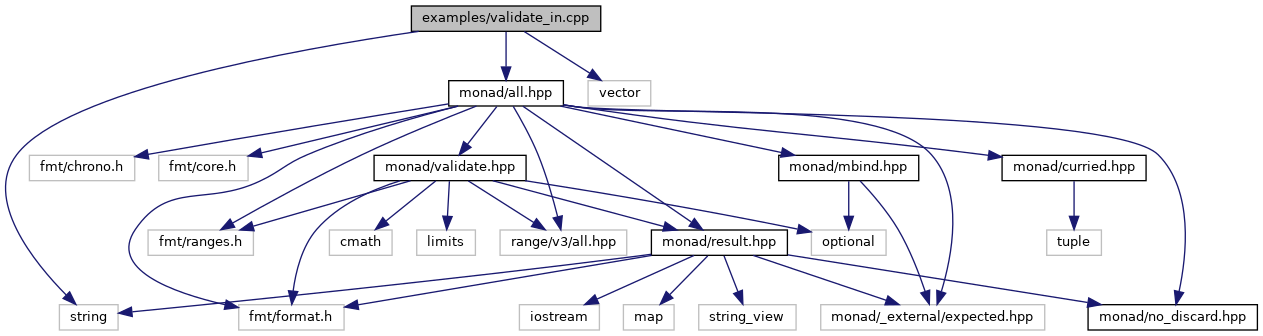
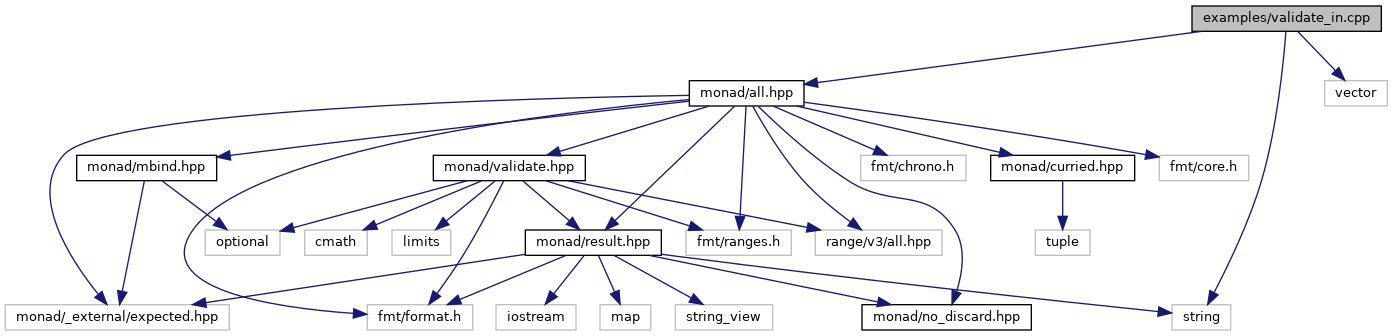
Deploying to gh-pages from @ tylerjw/monad@fa17e410df0eb7f10cb28e96ce4f65909ae8c2ec 🚀

diff --git a/validate__range_8cpp_source.html b/validate__range_8cpp_source.html
@@ -72,43 +72,39 @@ $(function() {
 <div class="contents">
 <a href="validate__range_8cpp.html">Go to the documentation of this file.</a><div class="fragment"><div class="line"><a name="l00001"></a><span class="lineno">    1</span>&#160;<span class="preprocessor">#include &lt;<a class="code" href="all_8hpp.html">monad/all.hpp</a>&gt;</span></div>
 <div class="line"><a name="l00002"></a><span class="lineno">    2</span>&#160; </div>
-<div class="line"><a name="l00003"></a><span class="lineno"><a class="line" href="validate__range_8cpp.html#a23c3f3583f3021edf5f227df3498ab01">    3</a></span>&#160;<span class="keywordtype">void</span> <a class="code" href="validate__range_8cpp.html#a23c3f3583f3021edf5f227df3498ab01">validate_int_step</a>()</div>
-<div class="line"><a name="l00004"></a><span class="lineno">    4</span>&#160;{</div>
-<div class="line"><a name="l00005"></a><span class="lineno">    5</span>&#160;  <span class="keyword">const</span> <span class="keyword">auto</span> value = 14;</div>
-<div class="line"><a name="l00006"></a><span class="lineno">    6</span>&#160;  <span class="keyword">const</span> <span class="keyword">auto</span> result = <a class="code" href="structvalidate_1_1range.html">validate::range&lt;int&gt;</a>{.<a class="code" href="structvalidate_1_1range.html#a99faa1e51c643e3366a996f5b2ba2dae">from</a> = 0, .step = 3}(value);</div>
-<div class="line"><a name="l00007"></a><span class="lineno">    7</span>&#160;  <span class="keywordflow">if</span> ( !result)</div>
-<div class="line"><a name="l00008"></a><span class="lineno">    8</span>&#160;  {</div>
-<div class="line"><a name="l00009"></a><span class="lineno">    9</span>&#160;    fmt::print(<span class="stringliteral">&quot;{} failed validate::range with result: {}\n&quot;</span>, value, result);</div>
-<div class="line"><a name="l00010"></a><span class="lineno">   10</span>&#160;  } <span class="keywordflow">else</span> {</div>
-<div class="line"><a name="l00011"></a><span class="lineno">   11</span>&#160;    fmt::print(<span class="stringliteral">&quot;{} passed validate::range with result: {}\n&quot;</span>, value, result);</div>
-<div class="line"><a name="l00012"></a><span class="lineno">   12</span>&#160;  }</div>
-<div class="line"><a name="l00013"></a><span class="lineno">   13</span>&#160;}</div>
-<div class="line"><a name="l00014"></a><span class="lineno">   14</span>&#160; </div>
-<div class="line"><a name="l00015"></a><span class="lineno"><a class="line" href="validate__range_8cpp.html#a45dade0a0ed3bc9cc3945d33888a3d53">   15</a></span>&#160;<span class="keywordtype">void</span> <a class="code" href="validate__range_8cpp.html#a45dade0a0ed3bc9cc3945d33888a3d53">validate_double</a>()</div>
-<div class="line"><a name="l00016"></a><span class="lineno">   16</span>&#160;{</div>
-<div class="line"><a name="l00017"></a><span class="lineno">   17</span>&#160;  <span class="keyword">const</span> <span class="keyword">auto</span> value = -2.1;</div>
-<div class="line"><a name="l00018"></a><span class="lineno">   18</span>&#160;  <span class="keyword">const</span> <span class="keyword">auto</span> result = <a class="code" href="structvalidate_1_1range.html">validate::range&lt;double&gt;</a>{.<a class="code" href="structvalidate_1_1range.html#a99faa1e51c643e3366a996f5b2ba2dae">from</a> = -15, .to = 23}(value);</div>
-<div class="line"><a name="l00019"></a><span class="lineno">   19</span>&#160;  <span class="keywordflow">if</span> (!result)</div>
-<div class="line"><a name="l00020"></a><span class="lineno">   20</span>&#160;  {</div>
-<div class="line"><a name="l00021"></a><span class="lineno">   21</span>&#160;    fmt::print(<span class="stringliteral">&quot;{} failed validate::range with result: {}\n&quot;</span>, value, result);</div>
-<div class="line"><a name="l00022"></a><span class="lineno">   22</span>&#160;  } <span class="keywordflow">else</span> {</div>
-<div class="line"><a name="l00023"></a><span class="lineno">   23</span>&#160;    fmt::print(<span class="stringliteral">&quot;{} passed validate::range with result: {}\n&quot;</span>, value, result);</div>
-<div class="line"><a name="l00024"></a><span class="lineno">   24</span>&#160;  }</div>
-<div class="line"><a name="l00025"></a><span class="lineno">   25</span>&#160;}</div>
-<div class="line"><a name="l00026"></a><span class="lineno">   26</span>&#160; </div>
-<div class="line"><a name="l00027"></a><span class="lineno"><a class="line" href="validate__range_8cpp.html#ae66f6b31b5ad750f1fe042a706a4e3d4">   27</a></span>&#160;<span class="keywordtype">int</span> <a class="code" href="validate__range_8cpp.html#ae66f6b31b5ad750f1fe042a706a4e3d4">main</a>()</div>
-<div class="line"><a name="l00028"></a><span class="lineno">   28</span>&#160;{</div>
-<div class="line"><a name="l00029"></a><span class="lineno">   29</span>&#160;  <a class="code" href="validate__range_8cpp.html#a23c3f3583f3021edf5f227df3498ab01">validate_int_step</a>();</div>
-<div class="line"><a name="l00030"></a><span class="lineno">   30</span>&#160;  <span class="comment">// 14 failed validate::range with result: [Result&lt;T&gt;: [Error: [OutOfRange] 14 is 0.33333333333333304 away from the nearest valid step]]</span></div>
-<div class="line"><a name="l00031"></a><span class="lineno">   31</span>&#160; </div>
-<div class="line"><a name="l00032"></a><span class="lineno">   32</span>&#160;  <a class="code" href="validate__range_8cpp.html#a45dade0a0ed3bc9cc3945d33888a3d53">validate_double</a>();</div>
-<div class="line"><a name="l00033"></a><span class="lineno">   33</span>&#160;  <span class="comment">// -2.1 passed validate::range with result: [Result&lt;T&gt;: value=-2.1]</span></div>
-<div class="line"><a name="l00034"></a><span class="lineno">   34</span>&#160;}</div>
+<div class="line"><a name="l00003"></a><span class="lineno"><a class="line" href="validate__range_8cpp.html#a23c3f3583f3021edf5f227df3498ab01">    3</a></span>&#160;<span class="keywordtype">void</span> <a class="code" href="validate__range_8cpp.html#a23c3f3583f3021edf5f227df3498ab01">validate_int_step</a>() {</div>
+<div class="line"><a name="l00004"></a><span class="lineno">    4</span>&#160;  <span class="keyword">const</span> <span class="keyword">auto</span> value = 14;</div>
+<div class="line"><a name="l00005"></a><span class="lineno">    5</span>&#160;  <span class="keyword">const</span> <span class="keyword">auto</span> result = <a class="code" href="structvalidate_1_1range.html">validate::range&lt;int&gt;</a>{.<a class="code" href="structvalidate_1_1range.html#a99faa1e51c643e3366a996f5b2ba2dae">from</a> = 0, .step = 3}(value);</div>
+<div class="line"><a name="l00006"></a><span class="lineno">    6</span>&#160;  <span class="keywordflow">if</span> (!result) {</div>
+<div class="line"><a name="l00007"></a><span class="lineno">    7</span>&#160;    fmt::print(<span class="stringliteral">&quot;{} failed validate::range with result: {}\n&quot;</span>, value, result);</div>
+<div class="line"><a name="l00008"></a><span class="lineno">    8</span>&#160;  } <span class="keywordflow">else</span> {</div>
+<div class="line"><a name="l00009"></a><span class="lineno">    9</span>&#160;    fmt::print(<span class="stringliteral">&quot;{} passed validate::range with result: {}\n&quot;</span>, value, result);</div>
+<div class="line"><a name="l00010"></a><span class="lineno">   10</span>&#160;  }</div>
+<div class="line"><a name="l00011"></a><span class="lineno">   11</span>&#160;}</div>
+<div class="line"><a name="l00012"></a><span class="lineno">   12</span>&#160; </div>
+<div class="line"><a name="l00013"></a><span class="lineno"><a class="line" href="validate__range_8cpp.html#a45dade0a0ed3bc9cc3945d33888a3d53">   13</a></span>&#160;<span class="keywordtype">void</span> <a class="code" href="validate__range_8cpp.html#a45dade0a0ed3bc9cc3945d33888a3d53">validate_double</a>() {</div>
+<div class="line"><a name="l00014"></a><span class="lineno">   14</span>&#160;  <span class="keyword">const</span> <span class="keyword">auto</span> value = -2.1;</div>
+<div class="line"><a name="l00015"></a><span class="lineno">   15</span>&#160;  <span class="keyword">const</span> <span class="keyword">auto</span> result = <a class="code" href="structvalidate_1_1range.html">validate::range&lt;double&gt;</a>{.<a class="code" href="structvalidate_1_1range.html#a99faa1e51c643e3366a996f5b2ba2dae">from</a> = -15, .to = 23}(value);</div>
+<div class="line"><a name="l00016"></a><span class="lineno">   16</span>&#160;  <span class="keywordflow">if</span> (!result) {</div>
+<div class="line"><a name="l00017"></a><span class="lineno">   17</span>&#160;    fmt::print(<span class="stringliteral">&quot;{} failed validate::range with result: {}\n&quot;</span>, value, result);</div>
+<div class="line"><a name="l00018"></a><span class="lineno">   18</span>&#160;  } <span class="keywordflow">else</span> {</div>
+<div class="line"><a name="l00019"></a><span class="lineno">   19</span>&#160;    fmt::print(<span class="stringliteral">&quot;{} passed validate::range with result: {}\n&quot;</span>, value, result);</div>
+<div class="line"><a name="l00020"></a><span class="lineno">   20</span>&#160;  }</div>
+<div class="line"><a name="l00021"></a><span class="lineno">   21</span>&#160;}</div>
+<div class="line"><a name="l00022"></a><span class="lineno">   22</span>&#160; </div>
+<div class="line"><a name="l00023"></a><span class="lineno"><a class="line" href="validate__range_8cpp.html#ae66f6b31b5ad750f1fe042a706a4e3d4">   23</a></span>&#160;<span class="keywordtype">int</span> <a class="code" href="validate__range_8cpp.html#ae66f6b31b5ad750f1fe042a706a4e3d4">main</a>() {</div>
+<div class="line"><a name="l00024"></a><span class="lineno">   24</span>&#160;  <a class="code" href="validate__range_8cpp.html#a23c3f3583f3021edf5f227df3498ab01">validate_int_step</a>();</div>
+<div class="line"><a name="l00025"></a><span class="lineno">   25</span>&#160;  <span class="comment">// 14 failed validate::range with result: [Result&lt;T&gt;: [Error: [OutOfRange] 14</span></div>
+<div class="line"><a name="l00026"></a><span class="lineno">   26</span>&#160;  <span class="comment">// is 0.33333333333333304 away from the nearest valid step]]</span></div>
+<div class="line"><a name="l00027"></a><span class="lineno">   27</span>&#160; </div>
+<div class="line"><a name="l00028"></a><span class="lineno">   28</span>&#160;  <a class="code" href="validate__range_8cpp.html#a45dade0a0ed3bc9cc3945d33888a3d53">validate_double</a>();</div>
+<div class="line"><a name="l00029"></a><span class="lineno">   29</span>&#160;  <span class="comment">// -2.1 passed validate::range with result: [Result&lt;T&gt;: value=-2.1]</span></div>
+<div class="line"><a name="l00030"></a><span class="lineno">   30</span>&#160;}</div>
 </div><!-- fragment --></div><!-- contents -->
 <div class="ttc" id="astructvalidate_1_1range_html"><div class="ttname"><a href="structvalidate_1_1range.html">validate::range</a></div><div class="ttdef"><b>Definition:</b> <a href="validate_8hpp_source.html#l00052">validate.hpp:52</a></div></div>
-<div class="ttc" id="avalidate__range_8cpp_html_a45dade0a0ed3bc9cc3945d33888a3d53"><div class="ttname"><a href="validate__range_8cpp.html#a45dade0a0ed3bc9cc3945d33888a3d53">validate_double</a></div><div class="ttdeci">void validate_double()</div><div class="ttdef"><b>Definition:</b> <a href="validate__range_8cpp_source.html#l00015">validate_range.cpp:15</a></div></div>
+<div class="ttc" id="avalidate__range_8cpp_html_a45dade0a0ed3bc9cc3945d33888a3d53"><div class="ttname"><a href="validate__range_8cpp.html#a45dade0a0ed3bc9cc3945d33888a3d53">validate_double</a></div><div class="ttdeci">void validate_double()</div><div class="ttdef"><b>Definition:</b> <a href="validate__range_8cpp_source.html#l00013">validate_range.cpp:13</a></div></div>
 <div class="ttc" id="astructvalidate_1_1range_html_a99faa1e51c643e3366a996f5b2ba2dae"><div class="ttname"><a href="structvalidate_1_1range.html#a99faa1e51c643e3366a996f5b2ba2dae">validate::range::from</a></div><div class="ttdeci">T from</div><div class="ttdef"><b>Definition:</b> <a href="validate_8hpp_source.html#l00053">validate.hpp:53</a></div></div>
-<div class="ttc" id="avalidate__range_8cpp_html_ae66f6b31b5ad750f1fe042a706a4e3d4"><div class="ttname"><a href="validate__range_8cpp.html#ae66f6b31b5ad750f1fe042a706a4e3d4">main</a></div><div class="ttdeci">int main()</div><div class="ttdef"><b>Definition:</b> <a href="validate__range_8cpp_source.html#l00027">validate_range.cpp:27</a></div></div>
+<div class="ttc" id="avalidate__range_8cpp_html_ae66f6b31b5ad750f1fe042a706a4e3d4"><div class="ttname"><a href="validate__range_8cpp.html#ae66f6b31b5ad750f1fe042a706a4e3d4">main</a></div><div class="ttdeci">int main()</div><div class="ttdef"><b>Definition:</b> <a href="validate__range_8cpp_source.html#l00023">validate_range.cpp:23</a></div></div>
 <div class="ttc" id="avalidate__range_8cpp_html_a23c3f3583f3021edf5f227df3498ab01"><div class="ttname"><a href="validate__range_8cpp.html#a23c3f3583f3021edf5f227df3498ab01">validate_int_step</a></div><div class="ttdeci">void validate_int_step()</div><div class="ttdef"><b>Definition:</b> <a href="validate__range_8cpp_source.html#l00003">validate_range.cpp:3</a></div></div>
 <div class="ttc" id="aall_8hpp_html"><div class="ttname"><a href="all_8hpp.html">all.hpp</a></div></div>
 <!-- start footer part -->

diff --git a/validate_range_8cpp-example.html b/validate_range_8cpp-example.html
@@ -75,43 +75,39 @@ $(function() {
 <p>This is an example of how to use <a class="el" href="structvalidate_1_1range.html">validate::range</a></p>
 <div class="fragment"><div class="line"><span class="preprocessor">#include &lt;<a class="code" href="all_8hpp.html">monad/all.hpp</a>&gt;</span></div>
 <div class="line"> </div>
-<div class="line"><span class="keywordtype">void</span> <a name="a0"></a><a class="code" href="validate__range_8cpp.html#a23c3f3583f3021edf5f227df3498ab01">validate_int_step</a>()</div>
-<div class="line">{</div>
+<div class="line"><span class="keywordtype">void</span> <a name="a0"></a><a class="code" href="validate__range_8cpp.html#a23c3f3583f3021edf5f227df3498ab01">validate_int_step</a>() {</div>
 <div class="line">  <span class="keyword">const</span> <span class="keyword">auto</span> value = 14;</div>
 <div class="line">  <span class="keyword">const</span> <span class="keyword">auto</span> result = <a name="_a1"></a><a class="code" href="structvalidate_1_1range.html">validate::range&lt;int&gt;</a>{.<a name="a2"></a><a class="code" href="structvalidate_1_1range.html#a99faa1e51c643e3366a996f5b2ba2dae">from</a> = 0, .step = 3}(value);</div>
-<div class="line">  <span class="keywordflow">if</span> ( !result)</div>
-<div class="line">  {</div>
+<div class="line">  <span class="keywordflow">if</span> (!result) {</div>
 <div class="line">    fmt::print(<span class="stringliteral">&quot;{} failed validate::range with result: {}\n&quot;</span>, value, result);</div>
 <div class="line">  } <span class="keywordflow">else</span> {</div>
 <div class="line">    fmt::print(<span class="stringliteral">&quot;{} passed validate::range with result: {}\n&quot;</span>, value, result);</div>
 <div class="line">  }</div>
 <div class="line">}</div>
 <div class="line"> </div>
-<div class="line"><span class="keywordtype">void</span> <a name="a3"></a><a class="code" href="validate__range_8cpp.html#a45dade0a0ed3bc9cc3945d33888a3d53">validate_double</a>()</div>
-<div class="line">{</div>
+<div class="line"><span class="keywordtype">void</span> <a name="a3"></a><a class="code" href="validate__range_8cpp.html#a45dade0a0ed3bc9cc3945d33888a3d53">validate_double</a>() {</div>
 <div class="line">  <span class="keyword">const</span> <span class="keyword">auto</span> value = -2.1;</div>
 <div class="line">  <span class="keyword">const</span> <span class="keyword">auto</span> result = <a class="code" href="structvalidate_1_1range.html">validate::range&lt;double&gt;</a>{.<a class="code" href="structvalidate_1_1range.html#a99faa1e51c643e3366a996f5b2ba2dae">from</a> = -15, .to = 23}(value);</div>
-<div class="line">  <span class="keywordflow">if</span> (!result)</div>
-<div class="line">  {</div>
+<div class="line">  <span class="keywordflow">if</span> (!result) {</div>
 <div class="line">    fmt::print(<span class="stringliteral">&quot;{} failed validate::range with result: {}\n&quot;</span>, value, result);</div>
 <div class="line">  } <span class="keywordflow">else</span> {</div>
 <div class="line">    fmt::print(<span class="stringliteral">&quot;{} passed validate::range with result: {}\n&quot;</span>, value, result);</div>
 <div class="line">  }</div>
 <div class="line">}</div>
 <div class="line"> </div>
-<div class="line"><span class="keywordtype">int</span> <a name="a4"></a><a class="code" href="validate__range_8cpp.html#ae66f6b31b5ad750f1fe042a706a4e3d4">main</a>()</div>
-<div class="line">{</div>
+<div class="line"><span class="keywordtype">int</span> <a name="a4"></a><a class="code" href="validate__range_8cpp.html#ae66f6b31b5ad750f1fe042a706a4e3d4">main</a>() {</div>
 <div class="line">  <a class="code" href="validate__range_8cpp.html#a23c3f3583f3021edf5f227df3498ab01">validate_int_step</a>();</div>
-<div class="line">  <span class="comment">// 14 failed validate::range with result: [Result&lt;T&gt;: [Error: [OutOfRange] 14 is 0.33333333333333304 away from the nearest valid step]]</span></div>
+<div class="line">  <span class="comment">// 14 failed validate::range with result: [Result&lt;T&gt;: [Error: [OutOfRange] 14</span></div>
+<div class="line">  <span class="comment">// is 0.33333333333333304 away from the nearest valid step]]</span></div>
 <div class="line"> </div>
 <div class="line">  <a class="code" href="validate__range_8cpp.html#a45dade0a0ed3bc9cc3945d33888a3d53">validate_double</a>();</div>
 <div class="line">  <span class="comment">// -2.1 passed validate::range with result: [Result&lt;T&gt;: value=-2.1]</span></div>
 <div class="line">}</div>
 </div><!-- fragment --> </div><!-- contents -->
 <div class="ttc" id="astructvalidate_1_1range_html"><div class="ttname"><a href="structvalidate_1_1range.html">validate::range</a></div><div class="ttdef"><b>Definition:</b> <a href="validate_8hpp_source.html#l00052">validate.hpp:52</a></div></div>
-<div class="ttc" id="avalidate__range_8cpp_html_a45dade0a0ed3bc9cc3945d33888a3d53"><div class="ttname"><a href="validate__range_8cpp.html#a45dade0a0ed3bc9cc3945d33888a3d53">validate_double</a></div><div class="ttdeci">void validate_double()</div><div class="ttdef"><b>Definition:</b> <a href="validate__range_8cpp_source.html#l00015">validate_range.cpp:15</a></div></div>
+<div class="ttc" id="avalidate__range_8cpp_html_a45dade0a0ed3bc9cc3945d33888a3d53"><div class="ttname"><a href="validate__range_8cpp.html#a45dade0a0ed3bc9cc3945d33888a3d53">validate_double</a></div><div class="ttdeci">void validate_double()</div><div class="ttdef"><b>Definition:</b> <a href="validate__range_8cpp_source.html#l00013">validate_range.cpp:13</a></div></div>
 <div class="ttc" id="astructvalidate_1_1range_html_a99faa1e51c643e3366a996f5b2ba2dae"><div class="ttname"><a href="structvalidate_1_1range.html#a99faa1e51c643e3366a996f5b2ba2dae">validate::range::from</a></div><div class="ttdeci">T from</div><div class="ttdef"><b>Definition:</b> <a href="validate_8hpp_source.html#l00053">validate.hpp:53</a></div></div>
-<div class="ttc" id="avalidate__range_8cpp_html_ae66f6b31b5ad750f1fe042a706a4e3d4"><div class="ttname"><a href="validate__range_8cpp.html#ae66f6b31b5ad750f1fe042a706a4e3d4">main</a></div><div class="ttdeci">int main()</div><div class="ttdef"><b>Definition:</b> <a href="validate__range_8cpp_source.html#l00027">validate_range.cpp:27</a></div></div>
+<div class="ttc" id="avalidate__range_8cpp_html_ae66f6b31b5ad750f1fe042a706a4e3d4"><div class="ttname"><a href="validate__range_8cpp.html#ae66f6b31b5ad750f1fe042a706a4e3d4">main</a></div><div class="ttdeci">int main()</div><div class="ttdef"><b>Definition:</b> <a href="validate__range_8cpp_source.html#l00023">validate_range.cpp:23</a></div></div>
 <div class="ttc" id="avalidate__range_8cpp_html_a23c3f3583f3021edf5f227df3498ab01"><div class="ttname"><a href="validate__range_8cpp.html#a23c3f3583f3021edf5f227df3498ab01">validate_int_step</a></div><div class="ttdeci">void validate_int_step()</div><div class="ttdef"><b>Definition:</b> <a href="validate__range_8cpp_source.html#l00003">validate_range.cpp:3</a></div></div>
 <div class="ttc" id="aall_8hpp_html"><div class="ttname"><a href="all_8hpp.html">all.hpp</a></div></div>
 <!-- start footer part -->

diff --git a/validate__in_8cpp_source.html b/validate__in_8cpp_source.html
@@ -70,24 +70,22 @@ $(function() {
 <div class="title">validate_in.cpp</div>  </div>
 </div><!--header-->
 <div class="contents">
-<a href="validate__in_8cpp.html">Go to the documentation of this file.</a><div class="fragment"><div class="line"><a name="l00001"></a><span class="lineno">    1</span>&#160;<span class="preprocessor">#include &lt;string&gt;</span></div>
-<div class="line"><a name="l00002"></a><span class="lineno">    2</span>&#160;<span class="preprocessor">#include &lt;vector&gt;</span></div>
-<div class="line"><a name="l00003"></a><span class="lineno">    3</span>&#160; </div>
-<div class="line"><a name="l00004"></a><span class="lineno">    4</span>&#160;<span class="preprocessor">#include &lt;<a class="code" href="all_8hpp.html">monad/all.hpp</a>&gt;</span></div>
-<div class="line"><a name="l00005"></a><span class="lineno">    5</span>&#160; </div>
-<div class="line"><a name="l00006"></a><span class="lineno"><a class="line" href="validate__in_8cpp.html#ae66f6b31b5ad750f1fe042a706a4e3d4">    6</a></span>&#160;<span class="keywordtype">int</span> <a class="code" href="validate__in_8cpp.html#ae66f6b31b5ad750f1fe042a706a4e3d4">main</a>()</div>
-<div class="line"><a name="l00007"></a><span class="lineno">    7</span>&#160;{</div>
-<div class="line"><a name="l00008"></a><span class="lineno">    8</span>&#160;  <span class="keyword">const</span> <span class="keyword">auto</span> day = <span class="stringliteral">&quot;monday&quot;</span>;</div>
-<div class="line"><a name="l00009"></a><span class="lineno">    9</span>&#160;  <span class="keyword">const</span> <span class="keyword">auto</span> weekends = std::vector&lt;std::string&gt;{<span class="stringliteral">&quot;saturday&quot;</span>, <span class="stringliteral">&quot;sunday&quot;</span>};</div>
-<div class="line"><a name="l00010"></a><span class="lineno">   10</span>&#160;  <span class="keyword">const</span> <span class="keyword">auto</span> result = <a class="code" href="namespacevalidate.html#a511d9c9fd641680d48cab89a01294356">validate::in</a>(weekends, day);</div>
-<div class="line"><a name="l00011"></a><span class="lineno">   11</span>&#160;  fmt::print(<span class="stringliteral">&quot;Is \&#39;{}\&#39; in {}?\n{}\n&quot;</span>, day, weekends, result);</div>
-<div class="line"><a name="l00012"></a><span class="lineno">   12</span>&#160; </div>
-<div class="line"><a name="l00013"></a><span class="lineno">   13</span>&#160;  <span class="comment">// Output:</span></div>
-<div class="line"><a name="l00014"></a><span class="lineno">   14</span>&#160;  <span class="comment">// Is &#39;monday&#39; in {&quot;saturday&quot;, &quot;sunday&quot;}?</span></div>
-<div class="line"><a name="l00015"></a><span class="lineno">   15</span>&#160;  <span class="comment">// [Result&lt;T&gt;: [Error: [OutOfRange] monday is not in {&quot;saturday&quot;, &quot;sunday&quot;}]]</span></div>
-<div class="line"><a name="l00016"></a><span class="lineno">   16</span>&#160;}</div>
+<a href="validate__in_8cpp.html">Go to the documentation of this file.</a><div class="fragment"><div class="line"><a name="l00001"></a><span class="lineno">    1</span>&#160;<span class="preprocessor">#include &lt;<a class="code" href="all_8hpp.html">monad/all.hpp</a>&gt;</span></div>
+<div class="line"><a name="l00002"></a><span class="lineno">    2</span>&#160;<span class="preprocessor">#include &lt;string&gt;</span></div>
+<div class="line"><a name="l00003"></a><span class="lineno">    3</span>&#160;<span class="preprocessor">#include &lt;vector&gt;</span></div>
+<div class="line"><a name="l00004"></a><span class="lineno">    4</span>&#160; </div>
+<div class="line"><a name="l00005"></a><span class="lineno"><a class="line" href="validate__in_8cpp.html#ae66f6b31b5ad750f1fe042a706a4e3d4">    5</a></span>&#160;<span class="keywordtype">int</span> <a class="code" href="validate__in_8cpp.html#ae66f6b31b5ad750f1fe042a706a4e3d4">main</a>() {</div>
+<div class="line"><a name="l00006"></a><span class="lineno">    6</span>&#160;  <span class="keyword">const</span> <span class="keyword">auto</span> day = <span class="stringliteral">&quot;monday&quot;</span>;</div>
+<div class="line"><a name="l00007"></a><span class="lineno">    7</span>&#160;  <span class="keyword">const</span> <span class="keyword">auto</span> weekends = std::vector&lt;std::string&gt;{<span class="stringliteral">&quot;saturday&quot;</span>, <span class="stringliteral">&quot;sunday&quot;</span>};</div>
+<div class="line"><a name="l00008"></a><span class="lineno">    8</span>&#160;  <span class="keyword">const</span> <span class="keyword">auto</span> result = <a class="code" href="namespacevalidate.html#a511d9c9fd641680d48cab89a01294356">validate::in</a>(weekends, day);</div>
+<div class="line"><a name="l00009"></a><span class="lineno">    9</span>&#160;  fmt::print(<span class="stringliteral">&quot;Is \&#39;{}\&#39; in {}?\n{}\n&quot;</span>, day, weekends, result);</div>
+<div class="line"><a name="l00010"></a><span class="lineno">   10</span>&#160; </div>
+<div class="line"><a name="l00011"></a><span class="lineno">   11</span>&#160;  <span class="comment">// Output:</span></div>
+<div class="line"><a name="l00012"></a><span class="lineno">   12</span>&#160;  <span class="comment">// Is &#39;monday&#39; in {&quot;saturday&quot;, &quot;sunday&quot;}?</span></div>
+<div class="line"><a name="l00013"></a><span class="lineno">   13</span>&#160;  <span class="comment">// [Result&lt;T&gt;: [Error: [OutOfRange] monday is not in {&quot;saturday&quot;, &quot;sunday&quot;}]]</span></div>
+<div class="line"><a name="l00014"></a><span class="lineno">   14</span>&#160;}</div>
 </div><!-- fragment --></div><!-- contents -->
-<div class="ttc" id="avalidate__in_8cpp_html_ae66f6b31b5ad750f1fe042a706a4e3d4"><div class="ttname"><a href="validate__in_8cpp.html#ae66f6b31b5ad750f1fe042a706a4e3d4">main</a></div><div class="ttdeci">int main()</div><div class="ttdef"><b>Definition:</b> <a href="validate__in_8cpp_source.html#l00006">validate_in.cpp:6</a></div></div>
+<div class="ttc" id="avalidate__in_8cpp_html_ae66f6b31b5ad750f1fe042a706a4e3d4"><div class="ttname"><a href="validate__in_8cpp.html#ae66f6b31b5ad750f1fe042a706a4e3d4">main</a></div><div class="ttdeci">int main()</div><div class="ttdef"><b>Definition:</b> <a href="validate__in_8cpp_source.html#l00005">validate_in.cpp:5</a></div></div>
 <div class="ttc" id="anamespacevalidate_html_a511d9c9fd641680d48cab89a01294356"><div class="ttname"><a href="namespacevalidate.html#a511d9c9fd641680d48cab89a01294356">validate::in</a></div><div class="ttdeci">constexpr Result&lt; T &gt; in(const Rng &amp;valid_values, const T &amp;value)</div><div class="ttdef"><b>Definition:</b> <a href="validate_8hpp_source.html#l00094">validate.hpp:94</a></div></div>
 <div class="ttc" id="aall_8hpp_html"><div class="ttname"><a href="all_8hpp.html">all.hpp</a></div></div>
 <!-- start footer part -->

diff --git a/validate__in_8cpp.html b/validate__in_8cpp.html
@@ -72,36 +72,36 @@ $(function() {
 <div class="title">validate_in.cpp File Reference</div>  </div>
 </div><!--header-->
 <div class="contents">
-<div class="textblock"><code>#include &lt;string&gt;</code><br />
+<div class="textblock"><code>#include &lt;<a class="el" href="all_8hpp_source.html">monad/all.hpp</a>&gt;</code><br />
+<code>#include &lt;string&gt;</code><br />
 <code>#include &lt;vector&gt;</code><br />
-<code>#include &lt;<a class="el" href="all_8hpp_source.html">monad/all.hpp</a>&gt;</code><br />
 </div><div class="textblock"><div class="dynheader">
 Include dependency graph for validate_in.cpp:</div>
 <div class="dyncontent">
 <div class="center"><img src="validate__in_8cpp__incl.png" border="0" usemap="#examples_2validate__in_8cpp" alt=""/></div>
 <map name="examples_2validate__in_8cpp" id="examples_2validate__in_8cpp">
-<area shape="rect" title=" " alt="" coords="411,5,601,32"/>
-<area shape="rect" title=" " alt="" coords="59,304,118,331"/>
-<area shape="rect" title=" " alt="" coords="588,80,651,107"/>
-<area shape="rect" href="all_8hpp.html" title=" " alt="" coords="449,80,563,107"/>
-<area shape="rect" title=" " alt="" coords="29,155,135,181"/>
-<area shape="rect" title=" " alt="" coords="159,155,248,181"/>
-<area shape="rect" title=" " alt="" coords="239,304,344,331"/>
-<area shape="rect" title=" " alt="" coords="148,229,253,256"/>
-<area shape="rect" title=" " alt="" coords="500,229,627,256"/>
-<area shape="rect" title=" " alt="" coords="821,304,1045,331"/>
-<area shape="rect" href="curried_8hpp.html" title=" " alt="" coords="1002,155,1146,181"/>
-<area shape="rect" href="mbind_8hpp.html" title=" " alt="" coords="779,155,919,181"/>
-<area shape="rect" href="no__discard_8hpp.html" title=" " alt="" coords="1088,304,1257,331"/>
-<area shape="rect" href="result_8hpp.html" title=" " alt="" coords="651,229,787,256"/>
-<area shape="rect" href="validate_8hpp.html" title=" " alt="" coords="374,155,526,181"/>
-<area shape="rect" title=" " alt="" coords="1047,229,1101,256"/>
-<area shape="rect" title=" " alt="" coords="811,229,886,256"/>
-<area shape="rect" title=" " alt="" coords="519,304,599,331"/>
-<area shape="rect" title=" " alt="" coords="623,304,674,331"/>
-<area shape="rect" title=" " alt="" coords="699,304,796,331"/>
-<area shape="rect" title=" " alt="" coords="329,229,392,256"/>
-<area shape="rect" title=" " alt="" coords="417,229,475,256"/>
+<area shape="rect" title=" " alt="" coords="1192,5,1381,32"/>
+<area shape="rect" href="all_8hpp.html" title=" " alt="" coords="689,80,804,107"/>
+<area shape="rect" title=" " alt="" coords="1172,304,1231,331"/>
+<area shape="rect" title=" " alt="" coords="1325,80,1387,107"/>
+<area shape="rect" title=" " alt="" coords="861,155,966,181"/>
+<area shape="rect" title=" " alt="" coords="1159,155,1249,181"/>
+<area shape="rect" title=" " alt="" coords="367,304,473,331"/>
+<area shape="rect" title=" " alt="" coords="686,229,791,256"/>
+<area shape="rect" title=" " alt="" coords="815,229,942,256"/>
+<area shape="rect" title=" " alt="" coords="5,304,229,331"/>
+<area shape="rect" href="curried_8hpp.html" title=" " alt="" coords="991,155,1135,181"/>
+<area shape="rect" href="mbind_8hpp.html" title=" " alt="" coords="77,155,217,181"/>
+<area shape="rect" href="no__discard_8hpp.html" title=" " alt="" coords="862,304,1031,331"/>
+<area shape="rect" href="result_8hpp.html" title=" " alt="" coords="525,229,661,256"/>
+<area shape="rect" href="validate_8hpp.html" title=" " alt="" coords="433,155,585,181"/>
+<area shape="rect" title=" " alt="" coords="1035,229,1090,256"/>
+<area shape="rect" title=" " alt="" coords="205,229,280,256"/>
+<area shape="rect" title=" " alt="" coords="496,304,576,331"/>
+<area shape="rect" title=" " alt="" coords="600,304,651,331"/>
+<area shape="rect" title=" " alt="" coords="675,304,773,331"/>
+<area shape="rect" title=" " alt="" coords="305,229,367,256"/>
+<area shape="rect" title=" " alt="" coords="392,229,451,256"/>
 </map>
 </div>
 </div>
@@ -130,7 +130,7 @@ Functions</h2></td></tr>
 <dl class="section examples"><dt>Examples</dt><dd><a class="el" href="validate_in_8cpp-example.html#a0">validate_in.cpp</a>.</dd>
 </dl>
 
-<p class="definition">Definition at line <a class="el" href="validate__in_8cpp_source.html#l00006">6</a> of file <a class="el" href="validate__in_8cpp_source.html">validate_in.cpp</a>.</p>
+<p class="definition">Definition at line <a class="el" href="validate__in_8cpp_source.html#l00005">5</a> of file <a class="el" href="validate__in_8cpp_source.html">validate_in.cpp</a>.</p>
 <div class="dynheader">
 Here is the call graph for this function:</div>
 <div class="dyncontent">

diff --git a/no__discard_8cpp_source.html b/no__discard_8cpp_source.html
@@ -72,12 +72,11 @@ $(function() {
 <div class="contents">
 <a href="no__discard_8cpp.html">Go to the documentation of this file.</a><div class="fragment"><div class="line"><a name="l00001"></a><span class="lineno">    1</span>&#160;<span class="preprocessor">#include &lt;<a class="code" href="all_8hpp.html">monad/all.hpp</a>&gt;</span></div>
 <div class="line"><a name="l00002"></a><span class="lineno">    2</span>&#160; </div>
-<div class="line"><a name="l00003"></a><span class="lineno"><a class="line" href="no__discard_8cpp.html#ae66f6b31b5ad750f1fe042a706a4e3d4">    3</a></span>&#160;<span class="keywordtype">int</span> <a class="code" href="no__discard_8cpp.html#ae66f6b31b5ad750f1fe042a706a4e3d4">main</a>()</div>
-<div class="line"><a name="l00004"></a><span class="lineno">    4</span>&#160;{</div>
-<div class="line"><a name="l00005"></a><span class="lineno">    5</span>&#160;  <span class="keyword">const</span> <span class="keyword">auto</span> f = <a class="code" href="structNoDiscard.html">NoDiscard</a>{[]{ <span class="keywordflow">return</span> <a class="code" href="structError.html">Error</a>{<a class="code" href="result_8hpp.html#a5d0f3b4a99b1ebb74d2e4f2e9207bc18a696b031073e74bf2cb98e5ef201d4aa3">ErrorCode::UNKNOWN</a>, <span class="stringliteral">&quot;yikes!&quot;</span>}; }};</div>
-<div class="line"><a name="l00006"></a><span class="lineno">    6</span>&#160;  fmt::print(<span class="stringliteral">&quot;{}\n&quot;</span>, f());</div>
-<div class="line"><a name="l00007"></a><span class="lineno">    7</span>&#160;  <span class="comment">// [Error: [Unknown] yikes!]</span></div>
-<div class="line"><a name="l00008"></a><span class="lineno">    8</span>&#160;}</div>
+<div class="line"><a name="l00003"></a><span class="lineno"><a class="line" href="no__discard_8cpp.html#ae66f6b31b5ad750f1fe042a706a4e3d4">    3</a></span>&#160;<span class="keywordtype">int</span> <a class="code" href="no__discard_8cpp.html#ae66f6b31b5ad750f1fe042a706a4e3d4">main</a>() {</div>
+<div class="line"><a name="l00004"></a><span class="lineno">    4</span>&#160;  <span class="keyword">const</span> <span class="keyword">auto</span> f = <a class="code" href="structNoDiscard.html">NoDiscard</a>{[] { <span class="keywordflow">return</span> <a class="code" href="structError.html">Error</a>{<a class="code" href="result_8hpp.html#a5d0f3b4a99b1ebb74d2e4f2e9207bc18a696b031073e74bf2cb98e5ef201d4aa3">ErrorCode::UNKNOWN</a>, <span class="stringliteral">&quot;yikes!&quot;</span>}; }};</div>
+<div class="line"><a name="l00005"></a><span class="lineno">    5</span>&#160;  fmt::print(<span class="stringliteral">&quot;{}\n&quot;</span>, f());</div>
+<div class="line"><a name="l00006"></a><span class="lineno">    6</span>&#160;  <span class="comment">// [Error: [Unknown] yikes!]</span></div>
+<div class="line"><a name="l00007"></a><span class="lineno">    7</span>&#160;}</div>
 </div><!-- fragment --></div><!-- contents -->
 <div class="ttc" id="astructError_html"><div class="ttname"><a href="structError.html">Error</a></div><div class="ttdoc">Error type used by Result&lt;T&gt;</div><div class="ttdef"><b>Definition:</b> <a href="result_8hpp_source.html#l00072">result.hpp:72</a></div></div>
 <div class="ttc" id="aCMakeLists_8txt_html_a7bb786bce3be30b1de4c12fb24700e7b"><div class="ttname"><a href="CMakeLists_8txt.html#a7bb786bce3be30b1de4c12fb24700e7b">cmake_minimum_required</a></div><div class="ttdeci">cmake_minimum_required(VERSION 3.15) project(monad) find_package(ament_cmake REQUIRED) find_package(fmt REQUIRED) find_package(range-v3 REQUIRED) add_library(monad INTERFACE) target_include_directories(monad INTERFACE $&lt; BUILD_INTERFACE</div><div class="ttdef"><b>Definition:</b> <a href="CMakeLists_8txt_source.html#l00001">CMakeLists.txt:1</a></div></div>

diff --git a/validate_in_8cpp-example.html b/validate_in_8cpp-example.html
@@ -82,13 +82,11 @@ $(function() {
 </dl>
 <dl class="section return"><dt>Returns</dt><dd>OutOfRange error if value is not in valid_values</dd></dl>
 <p>This is an example of how to use <a class="el" href="namespacevalidate.html#a511d9c9fd641680d48cab89a01294356">validate::in</a></p>
-<div class="fragment"><div class="line"><span class="preprocessor">#include &lt;string&gt;</span></div>
+<div class="fragment"><div class="line"><span class="preprocessor">#include &lt;<a class="code" href="all_8hpp.html">monad/all.hpp</a>&gt;</span></div>
+<div class="line"><span class="preprocessor">#include &lt;string&gt;</span></div>
 <div class="line"><span class="preprocessor">#include &lt;vector&gt;</span></div>
 <div class="line"> </div>
-<div class="line"><span class="preprocessor">#include &lt;<a class="code" href="all_8hpp.html">monad/all.hpp</a>&gt;</span></div>
-<div class="line"> </div>
-<div class="line"><span class="keywordtype">int</span> <a name="a0"></a><a class="code" href="validate__in_8cpp.html#ae66f6b31b5ad750f1fe042a706a4e3d4">main</a>()</div>
-<div class="line">{</div>
+<div class="line"><span class="keywordtype">int</span> <a name="a0"></a><a class="code" href="validate__in_8cpp.html#ae66f6b31b5ad750f1fe042a706a4e3d4">main</a>() {</div>
 <div class="line">  <span class="keyword">const</span> <span class="keyword">auto</span> day = <span class="stringliteral">&quot;monday&quot;</span>;</div>
 <div class="line">  <span class="keyword">const</span> <span class="keyword">auto</span> weekends = std::vector&lt;std::string&gt;{<span class="stringliteral">&quot;saturday&quot;</span>, <span class="stringliteral">&quot;sunday&quot;</span>};</div>
 <div class="line">  <span class="keyword">const</span> <span class="keyword">auto</span> result = <a name="a1"></a><a class="code" href="namespacevalidate.html#a511d9c9fd641680d48cab89a01294356">validate::in</a>(weekends, day);</div>
@@ -99,7 +97,7 @@ $(function() {
 <div class="line">  <span class="comment">// [Result&lt;T&gt;: [Error: [OutOfRange] monday is not in {&quot;saturday&quot;, &quot;sunday&quot;}]]</span></div>
 <div class="line">}</div>
 </div><!-- fragment --> </div><!-- contents -->
-<div class="ttc" id="avalidate__in_8cpp_html_ae66f6b31b5ad750f1fe042a706a4e3d4"><div class="ttname"><a href="validate__in_8cpp.html#ae66f6b31b5ad750f1fe042a706a4e3d4">main</a></div><div class="ttdeci">int main()</div><div class="ttdef"><b>Definition:</b> <a href="validate__in_8cpp_source.html#l00006">validate_in.cpp:6</a></div></div>
+<div class="ttc" id="avalidate__in_8cpp_html_ae66f6b31b5ad750f1fe042a706a4e3d4"><div class="ttname"><a href="validate__in_8cpp.html#ae66f6b31b5ad750f1fe042a706a4e3d4">main</a></div><div class="ttdeci">int main()</div><div class="ttdef"><b>Definition:</b> <a href="validate__in_8cpp_source.html#l00005">validate_in.cpp:5</a></div></div>
 <div class="ttc" id="anamespacevalidate_html_a511d9c9fd641680d48cab89a01294356"><div class="ttname"><a href="namespacevalidate.html#a511d9c9fd641680d48cab89a01294356">validate::in</a></div><div class="ttdeci">constexpr Result&lt; T &gt; in(const Rng &amp;valid_values, const T &amp;value)</div><div class="ttdef"><b>Definition:</b> <a href="validate_8hpp_source.html#l00094">validate.hpp:94</a></div></div>
 <div class="ttc" id="aall_8hpp_html"><div class="ttname"><a href="all_8hpp.html">all.hpp</a></div></div>
 <!-- start footer part -->

diff --git a/index.html b/index.html
@@ -68,7 +68,7 @@ $(function() {
 <div class="contents">
 <div class="textblock"><p>FP (Functional Programming) extensions for C++</p>
 <p><a href="https://github.com/tylerjw/monad/actions/workflows/ci.yaml?query=branch%3Amain"><object type="image/svg+xml" data="https://github.com/tylerjw/monad/actions/workflows/ci.yaml/badge.svg?branch=main" style="pointer-events: none;">CI</object></a> <a href="https://github.com/tylerjw/monad/actions/workflows/doxygen.yaml?query=branch%3Amain"><object type="image/svg+xml" data="https://github.com/tylerjw/monad/actions/workflows/doxygen.yaml/badge.svg?branch=main" style="pointer-events: none;">Doxygen</object></a></p>
-<p><a href="https://tylerjw.testspace.com/spaces/159418?utm_campaign=badge&amp;utm_medium=referral&amp;utm_source=test" title="Test Cases"><img src="https://tylerjw.testspace.com/spaces/159418/badge?token=7d91716246bf500bb9cea44a5c8b17e3e179873e" alt="Space Metric" class="inline"/></a> <a href="https://codecov.io/gh/tylerjw/monad"><object type="image/svg+xml" data="https://codecov.io/gh/tylerjw/monad/branch/main/graph/badge.svg?token=W7uHKcY0ly" style="pointer-events: none;">Code Coverage</object></a></p>
+<p><a href="https://tylerjw.testspace.com/spaces/66789?utm_campaign=badge&amp;utm_medium=referral&amp;utm_source=test" title="Test Cases"><img src="https://tylerjw.testspace.com/spaces/66789/badge?token=7d91716246bf500bb9cea44a5c8b17e3e179873e" alt="Space Metric" class="inline"/></a> <a href="https://codecov.io/gh/tylerjw/monad"><object type="image/svg+xml" data="https://codecov.io/gh/tylerjw/monad/branch/main/graph/badge.svg?token=W7uHKcY0ly" style="pointer-events: none;">Code Coverage</object></a></p>
 <p><a href="https://github.com/tylerjw/monad/blob/main/LICENSE"><img src="https://img.shields.io/github/license/tylerjw/monad" alt="license" class="inline"/></a> <a href="#"><img src="https://img.shields.io/tokei/lines/github/tylerjw/monad" alt="LOC" class="inline"/></a> <a href="https://github.com/tylerjw/monad/issues"><img src="https://img.shields.io/github/issues-raw/tylerjw/monad" alt="Open Issues" class="inline"/></a> <a href="https://github.com/tylerjw/monad/pulls"><img src="https://img.shields.io/github/issues-pr/tylerjw/monad" alt="pull requests" class="inline"/></a> <a href="https://github.com/tylerjw/monad/graphs/contributors"><img src="https://img.shields.io/github/contributors/tylerjw/monad" alt="contributors" class="inline"/></a> <a href="https://github.com/tylerjw/monad/commits/main"><img src="https://img.shields.io/github/last-commit/tylerjw/monad/main" alt="last commit" class="inline"/></a></p>
 <h1><a class="anchor" id="autotoc_md1"></a>
 Getting started</h1>

diff --git a/no_discard_8cpp-example.html b/no_discard_8cpp-example.html
@@ -74,9 +74,8 @@ $(function() {
 </dl>
 <div class="fragment"><div class="line"><span class="preprocessor">#include &lt;<a class="code" href="all_8hpp.html">monad/all.hpp</a>&gt;</span></div>
 <div class="line"> </div>
-<div class="line"><span class="keywordtype">int</span> <a name="a0"></a><a class="code" href="no__discard_8cpp.html#ae66f6b31b5ad750f1fe042a706a4e3d4">main</a>()</div>
-<div class="line">{</div>
-<div class="line">  <span class="keyword">const</span> <span class="keyword">auto</span> f = <a name="_a1"></a><a class="code" href="structNoDiscard.html">NoDiscard</a>{[]{ <span class="keywordflow">return</span> <a name="_a2"></a><a class="code" href="structError.html">Error</a>{<a name="a3"></a><a class="code" href="result_8hpp.html#a5d0f3b4a99b1ebb74d2e4f2e9207bc18a696b031073e74bf2cb98e5ef201d4aa3">ErrorCode::UNKNOWN</a>, <span class="stringliteral">&quot;yikes!&quot;</span>}; }};</div>
+<div class="line"><span class="keywordtype">int</span> <a name="a0"></a><a class="code" href="no__discard_8cpp.html#ae66f6b31b5ad750f1fe042a706a4e3d4">main</a>() {</div>
+<div class="line">  <span class="keyword">const</span> <span class="keyword">auto</span> f = <a name="_a1"></a><a class="code" href="structNoDiscard.html">NoDiscard</a>{[] { <span class="keywordflow">return</span> <a name="_a2"></a><a class="code" href="structError.html">Error</a>{<a name="a3"></a><a class="code" href="result_8hpp.html#a5d0f3b4a99b1ebb74d2e4f2e9207bc18a696b031073e74bf2cb98e5ef201d4aa3">ErrorCode::UNKNOWN</a>, <span class="stringliteral">&quot;yikes!&quot;</span>}; }};</div>
 <div class="line">  fmt::print(<span class="stringliteral">&quot;{}\n&quot;</span>, f());</div>
 <div class="line">  <span class="comment">// [Error: [Unknown] yikes!]</span></div>
 <div class="line">}</div>

diff --git a/validate__range_8cpp.html b/validate__range_8cpp.html
@@ -131,7 +131,7 @@ Functions</h2></td></tr>
 <dl class="section examples"><dt>Examples</dt><dd><a class="el" href="validate_range_8cpp-example.html#a4">validate_range.cpp</a>.</dd>
 </dl>
 
-<p class="definition">Definition at line <a class="el" href="validate__range_8cpp_source.html#l00027">27</a> of file <a class="el" href="validate__range_8cpp_source.html">validate_range.cpp</a>.</p>
+<p class="definition">Definition at line <a class="el" href="validate__range_8cpp_source.html#l00023">23</a> of file <a class="el" href="validate__range_8cpp_source.html">validate_range.cpp</a>.</p>
 <div class="dynheader">
 Here is the call graph for this function:</div>
 <div class="dyncontent">
@@ -162,7 +162,7 @@ Here is the call graph for this function:</div>
 <dl class="section examples"><dt>Examples</dt><dd><a class="el" href="validate_range_8cpp-example.html#a3">validate_range.cpp</a>.</dd>
 </dl>
 
-<p class="definition">Definition at line <a class="el" href="validate__range_8cpp_source.html#l00015">15</a> of file <a class="el" href="validate__range_8cpp_source.html">validate_range.cpp</a>.</p>
+<p class="definition">Definition at line <a class="el" href="validate__range_8cpp_source.html#l00013">13</a> of file <a class="el" href="validate__range_8cpp_source.html">validate_range.cpp</a>.</p>
 <div class="dynheader">
 Here is the caller graph for this function:</div>
 <div class="dyncontent">
